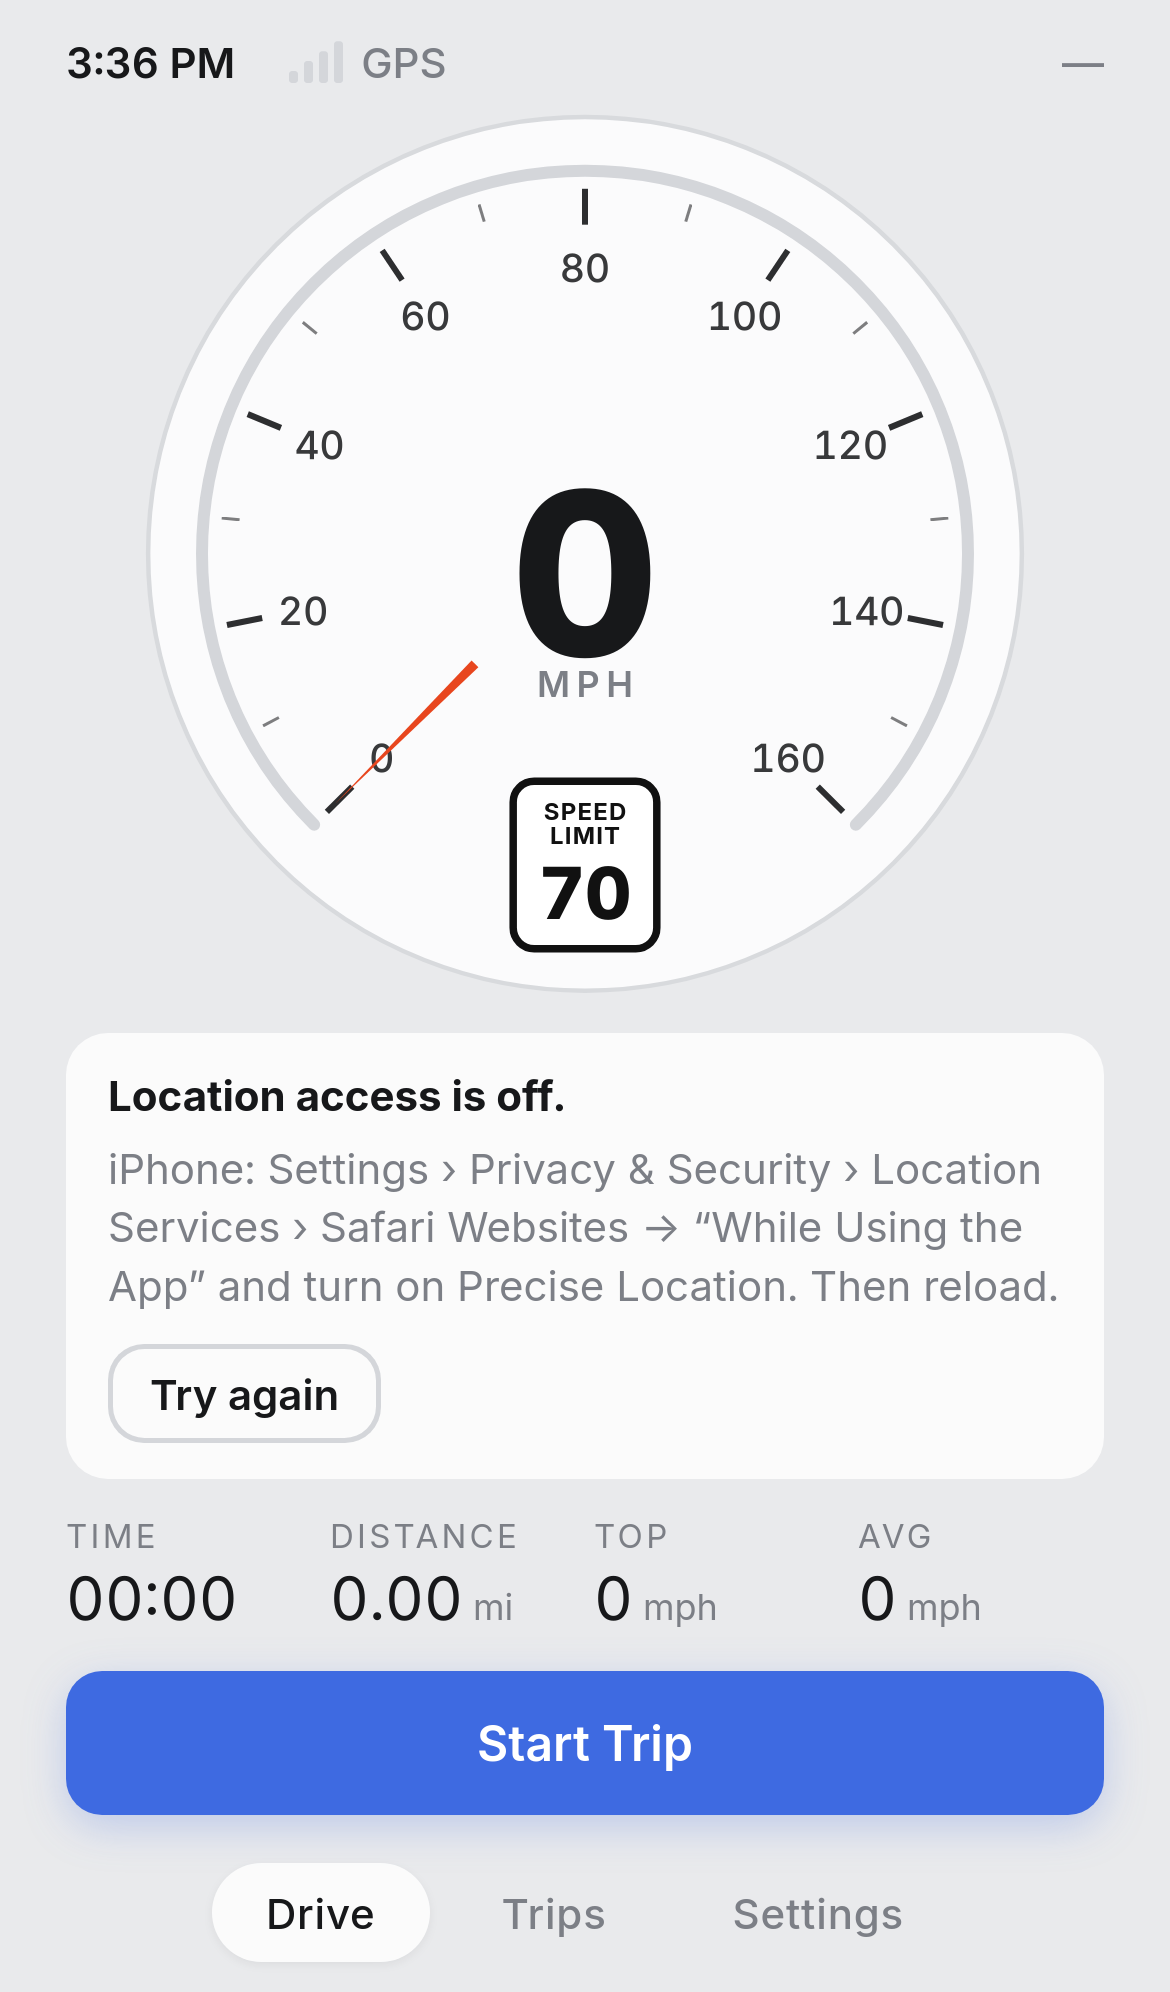
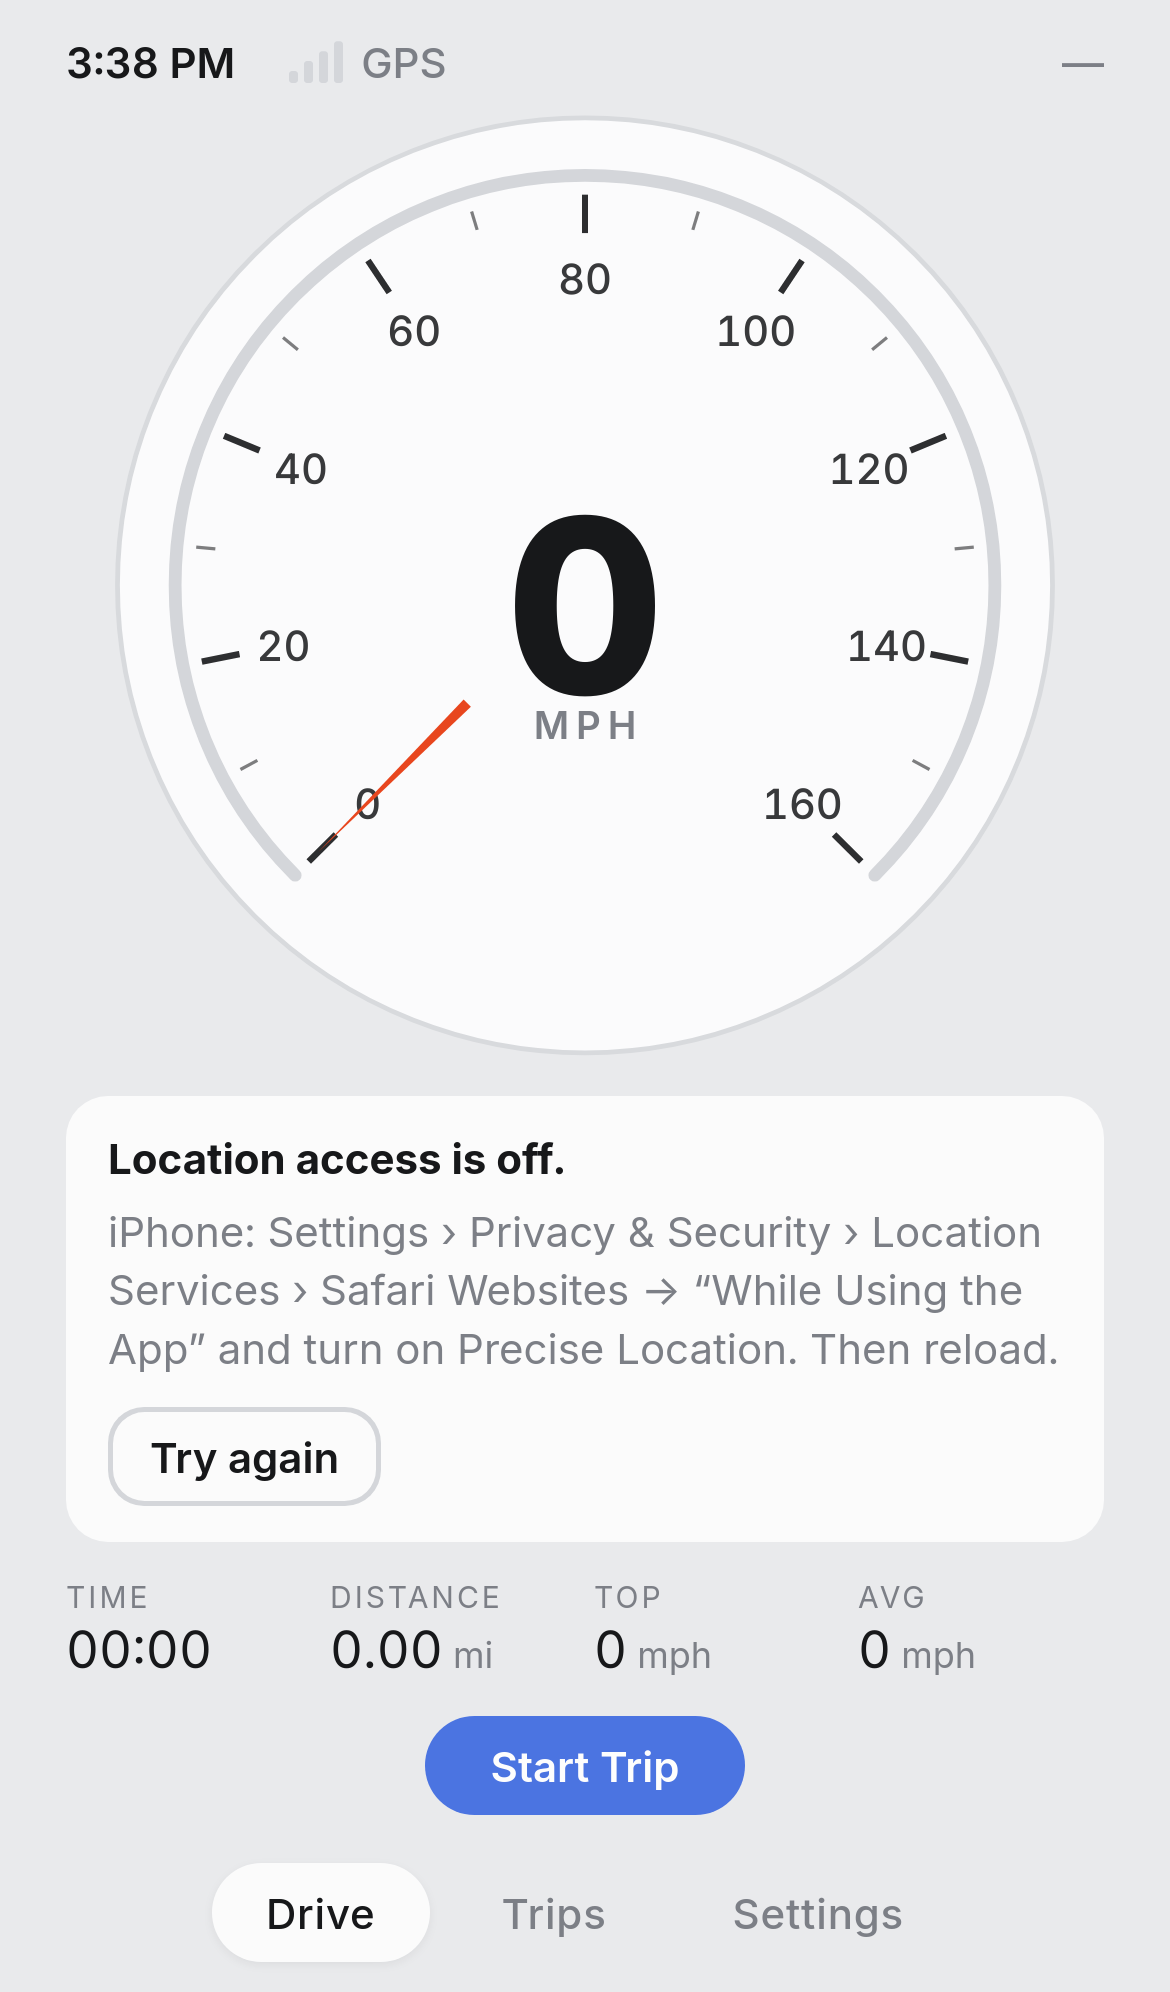
Landscape-first Drive: larger gauge, slim rail/status, compact pill + stats, no limit badge; screens

diff --git a/src/index.css b/src/index.css
@@ -39,11 +39,8 @@ button { font: inherit; color: inherit; cursor: pointer; -webkit-tap-highlight-c
 .needle path { fill: var(--needle); }
 .gauge .num { fill: var(--fg); font-size: 76px; font-weight: 800; letter-spacing: -.03em; transition: fill .25s; }
 .gauge .unit { fill: var(--mut); font-size: 12px; font-weight: 600; letter-spacing: .18em; }
-.limit rect { fill: #fff; stroke: #111; stroke-width: 2.5; transition: stroke .25s; }
-.limit .lsm { fill: #111; font-size: 8px; font-weight: 700; letter-spacing: .05em; }
-.limit .lnum { fill: #111; font-size: 24px; font-weight: 800; }
-.over .gauge .num, .over .limit .lnum, .over .limit .lsm { fill: var(--red); }
-.over .prog { stroke: var(--red); } .over .limit rect { stroke: var(--red); }
+.over .gauge .num, .over .needle path { fill: var(--red); }
+.over .prog { stroke: var(--red); }
 .over .gauge .num { animation: pulse 1s ease-in-out infinite; }
 @keyframes pulse { 50% { opacity: .55; } }
 .pulse { animation: pulse 1.4s ease-in-out infinite; }
@@ -52,11 +49,11 @@ button { font: inherit; color: inherit; cursor: pointer; -webkit-tap-highlight-c
 .note.err p { margin: 6px 0 10px; color: var(--mut); line-height: 1.4; }
 .stats { display: grid; grid-template-columns: repeat(4, 1fr); gap: 6px; }
 .stat { display: flex; flex-direction: column; gap: 2px; }
-.stat span { font-size: 11px; text-transform: uppercase; letter-spacing: .1em; color: var(--mut); }
-.stat b { font-size: 20px; font-weight: 400; white-space: nowrap; }
+.stat span { font-size: 10px; text-transform: uppercase; letter-spacing: .1em; color: var(--mut); }
+.stat b { font-size: 17px; font-weight: 400; white-space: nowrap; }
 .stat i { font-style: normal; font-size: 12px; color: var(--mut); }
 .btn { border: 0; border-radius: 12px; padding: 14px; font-size: 16px; font-weight: 600; }
-.btn.trip { background: var(--accent); color: #fff; box-shadow: 0 4px 14px #3e6ae140; }
+.btn.trip { align-self: center; border-radius: 999px; padding: 8px 22px; font-size: 14px; background: var(--accent); color: #fff; box-shadow: none; opacity: .92; }
 .btn.trip.stop { background: var(--card); color: var(--red); box-shadow: inset 0 0 0 1.5px var(--line); }
 .btn.ghost { background: transparent; box-shadow: inset 0 0 0 1.5px var(--line); padding: 8px 14px; font-size: 14px; }
 
@@ -65,19 +62,20 @@ button { font: inherit; color: inherit; cursor: pointer; -webkit-tap-highlight-c
   .app { flex-direction: row-reverse; }
   .nav { flex-direction: column; justify-content: flex-end; padding: 12px 8px; }
   .drive { flex-direction: row; align-items: stretch; max-width: 1500px; gap: 4vw; padding: 12px 28px; }
-  .hero { flex: 1.4; }
-  .side { flex: 1; max-width: 420px; justify-content: center; }
+  .hero { flex: 1.8; }
+  .side { flex: 1; max-width: 340px; justify-content: center; }
   .stats { grid-template-columns: repeat(2, 1fr); gap: 16px 12px; }
 }
 @media (orientation: landscape) and (max-height: 500px) {
-  .drive { padding: 8px 20px; } .side { gap: 8px; } .stats { gap: 8px 12px; }
-  .btn { padding: 10px; }
-  .nav a { padding: 6px 12px; font-size: 13px; }
+  .drive { padding: 4px 16px 6px; gap: 3vw; } .hero { gap: 0; } .side { gap: 10px; } .stats { gap: 8px 14px; }
+  .status { font-size: 12px; gap: 12px; } .nav { padding: 6px 4px; gap: 2px; justify-content: center; }
+  .nav a { padding: 5px 10px; font-size: 12px; }
+  .btn.trip { padding: 6px 18px; }
 }
 @media (min-width: 1200px) {
   .status { font-size: 18px; }
-  .stat b { font-size: 34px; } .stat span { font-size: 13px; }
-  .btn { font-size: 19px; padding: 18px; }
+  .stat b { font-size: 26px; } .stat span { font-size: 12px; }
+  .btn.trip { font-size: 16px; padding: 10px 28px; }
   .nav a { font-size: 17px; padding: 12px 22px; }
   .drive { padding: 32px 48px; }
 }
